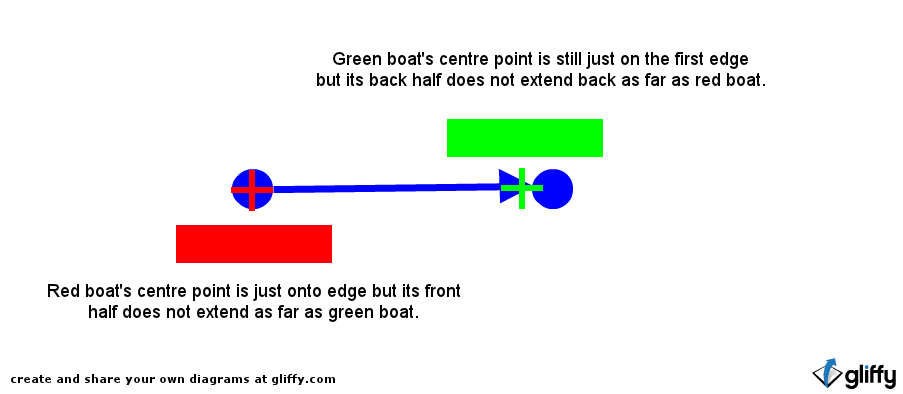
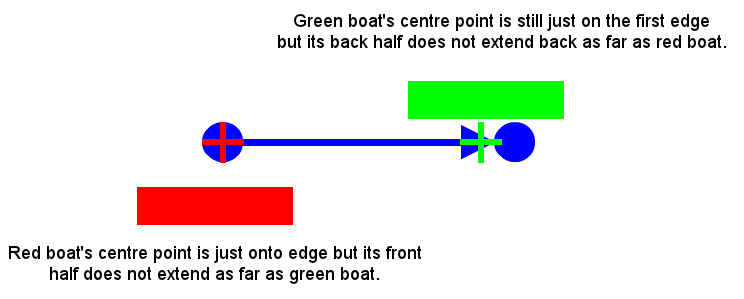
Tweaked the Boat and Lane model images to fit on screen better, clearer captions and images have been improved.

Changed region(s): [[0.0, 0.2709, 0.7728, 0.9933], [0.3401, 0.0301, 0.9892, 0.2408], [0.8965, 0.903, 1.0, 0.9933]]

diff --git a/body/Model.tex b/body/Model.tex
@@ -54,7 +54,7 @@
       
       \begin{figure}
       \begin{center}
-      	\includegraphics[scale=0.3]{images/lanes.png}
+      	\includegraphics[scale=0.5,angle=90]{images/lanes.png}
       	\caption{Representation of river as 3 lanes with a temporary path for lane changing}
       	\label{fig:model:lanes}
       \end{center}
@@ -95,8 +95,8 @@
       
       \begin{figure}
       \begin{center}
-      	\includegraphics[scale=0.3]{images/edgeoccupation.png}
-      	\caption{How the edge occupied by a boat changes as it moves.}
+      	\includegraphics[scale=0.45]{images/edgeoccupation.png}
+      	\caption{How the edge occupied by a boat changes as it moves. For clarity the 2D position of the boat is shown below the lane.}
       	\label{fig:model:edgeoccupation}
       \end{center}
       \end{figure}
@@ -105,16 +105,16 @@
       
       \begin{figure}
       \begin{center}
-      	\includegraphics[scale=0.3]{images/overlap_worst_case.png}
-      	\caption{These boats appear to be overlapping, however in the model they are considered to be occupying different parts of the lane.}
+      	\includegraphics[scale=0.6]{images/overlap_worst_case.png}
+      	\caption{These boats appear to be overlapping. However in the model they are considered to be occupying different parts of the lane. For clarity the 2D positions of the boats are shown above and below the lane, but they should be considered to be in the same lane.}
       	\label{fig:model:worstcase_overlapping}
       \end{center}
       \end{figure}
       
       \begin{figure}
       \begin{center}
-      	\includegraphics[scale=0.3]{images/worstcase_no_overlap.png}
-      	\caption{These boats appear to have space between them, however in the model they are considered to be occupying the same edge.}
+      	\includegraphics[scale=0.6]{images/worstcase_no_overlap.png}
+      	\caption{These boats appear to have space between them. However, in the model they are considered to be occupying the same edge. For clarity the 2D positions of the boat are shown above and below the lane, but they should be considered to be in the same lane.}
       	\label{fig:model:worstcase_no_overlap}
       \end{center}
       \end{figure}
